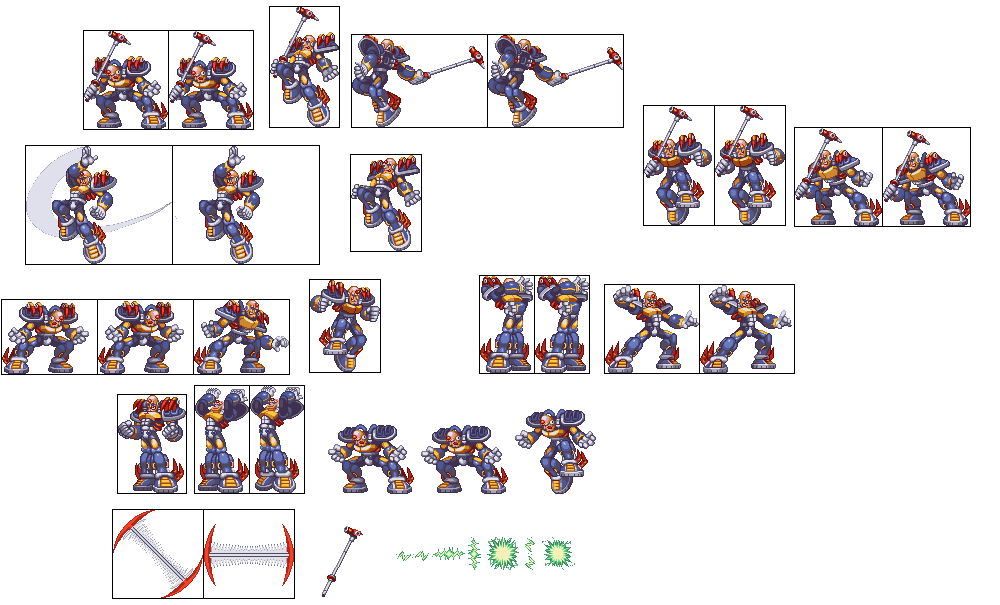
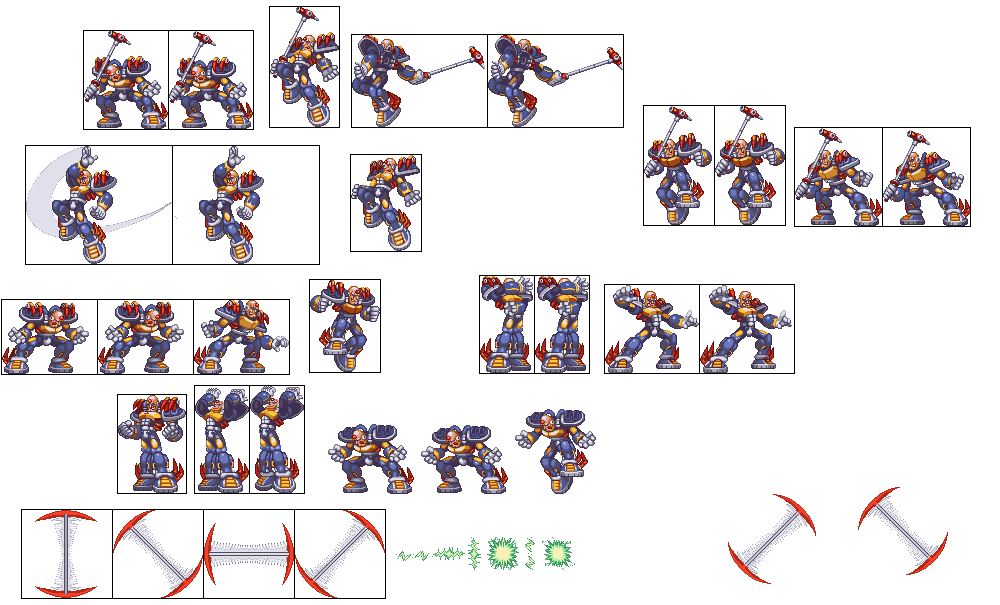
Working on Sigma

diff --git a/js/Game/Sprites/SigmaSickle.js b/js/Game/Sprites/SigmaSickle.js
@@ -1,0 +1,147 @@
+'use strict'
+
+/**
+ * @exports SigmaSickle
+ */
+
+/**
+ * State for the movement state of the projectile.
+ *
+ * @type {{horizontal: number, vertical: number, down: number}}
+ */
+const SigmaSickleState = {
+    down: 0,
+    horizontal: 1,
+    vertical: 2,
+};
+
+/**
+ * @class SigmaSickle
+ *
+ * Class representing the sickle projectile.
+ */
+class SigmaSickle extends Sprite {
+    /**
+     * Reference to the current angle.
+     *
+     * @type {{value?: number}}
+     * @private
+     */
+    #angleRef;
+
+    /**
+     * @param level {Level} level of the projectile.
+     * @param x {number} x-coordinate of the hero.
+     * @param y {number} y-coordinate of the hero.
+     * @param scale {number} scale of SigmaSickle.
+     * @param toLeft {boolean} if true goes to the left.
+     * @param speed {number?} speed of the projectile.
+     * @param hitBoxBrush {{
+     *    borderWidth?: number,
+     *    borderColor?: string,
+     *    fillColor?: string,
+     *    font?: string
+     *  }?} object hit-box brush properties.
+     */
+    constructor(
+        level,
+        x,
+        y,
+        scale,
+        toLeft,
+        speed = 5,
+        hitBoxBrush
+    ) {
+        super(
+            {},
+            ['sigma_2.png'],
+            [x, y],
+            () => {
+                this.circleAround(
+                    this.#angleRef,
+                    this.initX + (toLeft ? -200 : 200),
+                    this.initY + 200,
+                    toLeft ? Math.abs(speed) : -Math.abs(speed),
+                    () => {
+                        this.game.removeSprite(this);
+                    }
+                )
+
+                this.moveCurrentAnimation();
+            },
+            undefined,
+            hitBoxBrush,
+            undefined,
+            undefined,
+            undefined,
+            scale
+        );
+
+        // Angle reference
+        this.#angleRef = {
+            value: -70 + (toLeft ? 0 : -90),
+        };
+
+        this.level = level;
+        this.states.set(SigmaSickleState, SigmaSickleState.down);
+        this.currentAnimation = this.createAnimation(
+            0,
+            22,
+            510,
+            4,
+            1,
+            4,
+            90,
+            88,
+            1,
+            0,
+            1,
+        );
+    }
+
+    /**
+     * @returns {{
+     *   topLeftCoords: [number, number]
+     * }} description of SigmaSickle.
+     */
+    get desc() {
+        return super.desc;
+    }
+
+    /**
+     * @returns {HitBox[]} the smallest rectangle that surrounds the shape.
+     */
+    get defaultHitBox() {
+        return this.convertHitBoxes([
+            {
+                x: this.x + 7,
+                y: this.y + 7,
+                width: 76,
+                height: 74
+            }
+        ]);
+    }
+
+    /**
+     * Draws the rectangle in the 2d context.
+     *
+     * @param context {CanvasRenderingContext2D} 2d canvas element context.
+     */
+    draw(context) {
+        this.drawCurrentAnimation(this.x, this.y, context);
+    }
+
+    /**
+     * @returns {string} the type of the sprite.
+     */
+    static get type() {
+        return "enemyProjectile";
+    }
+
+    /**
+     * @returns {string} the type of the sprite.
+     */
+    get type() {
+        return SigmaSickle.type;
+    }
+}

diff --git a/js/GameEngine/BaseSprites/Sprite.js b/js/GameEngine/BaseSprites/Sprite.js
@@ -1083,6 +1083,43 @@ class Sprite {
     }
 
     /**
+     * @param angleRef {{
+     *      value?: number,
+     *      initValue?: number,
+     * }}
+     * @param x {number} x-coordinate of the center of path.
+     * @param y {number} y-coordinate of the center of path.
+     * @param angularSpeed {number} in degrees.
+     * @param onCycle {function()?} called on each cycle.
+     */
+    circleAround(angleRef, x, y, angularSpeed, onCycle) {
+        if (angleRef.value === undefined) {
+            angleRef.value = angleRef.initValue = 0;
+        } else if (angleRef.initValue === undefined) {
+            angleRef.initValue = angularSpeed > 0 ? angleRef.value : Math.abs(angleRef.value);
+        }
+
+        // Radius of the movement
+        const radius = this.euclideanDistancePt(
+            [this.x, this.y],
+            [x, y]
+        );
+
+        this.x = x + radius * Math.cos(this.degToRadians(angleRef.value));
+        this.y = y + radius * Math.sin(this.degToRadians(angleRef.value));
+
+        // Rotate
+        angleRef.value += angularSpeed;
+
+        // Call onCycle
+        if (angularSpeed > 0 ? angleRef.value : Math.abs(angleRef.value) >= 360 + angleRef.initValue && onCycle) {
+            onCycle();
+        }
+
+        angleRef.value %= 360 + angleRef.initValue;
+    }
+
+    /**
      * Applies linear interpolation to accelerate this sprite to the destination.
      *
      * @param movement {MovementType} object controlling the sprite motion. Modified.
@@ -1343,15 +1380,15 @@ class Sprite {
         }
 
         // Translate coordinates
-        ctx.translate((flip ? -scale * anim.singleWidth - x : x), y);
+        ctx.translate((flip ? Math.floor(-scale * anim.singleWidth - x) : x), y);
 
         // Rotate the image
         ctx.rotate(this.#radRotation);
 
         ctx.drawImage(
             SpriteSheet.load(this.sheets[anim.sheetInd], forceLoad, width, height),
-            (anim.singleWidth + anim.cSpace) * anim.currentCol + anim.startX,
-            (anim.singleHeight + anim.rSpace) * anim.currentRow + anim.startY,
+            Math.floor((anim.singleWidth + anim.cSpace) * anim.currentCol + anim.startX),
+            Math.floor((anim.singleHeight + anim.rSpace) * anim.currentRow + anim.startY),
             anim.singleWidth,
             anim.singleHeight,
             0, // Already translated

diff --git a/js/index.js b/js/index.js
@@ -37,21 +37,21 @@ const ShootingState = {
 const l1 = new Level_1([txt]);
 
 
-const s1 = new SigmaShockProjectile(
-    l1,
-    500,
-    300,
-    2,
-    true,
-);
-
-const s2 = new SigmaShockProjectile(
+const s1 = new SigmaSickle(
     l1,
     500,
     300,
     2,
     false,
 );
+
+// const s2 = new SigmaShockProjectile(
+//     l1,
+//     500,
+//     300,
+//     2,
+//     false,
+// );
 
 const x = new Player(500, 300, l1.scale, (ignored) => {
     // if (x.states.get(ShootingState) === ShootingState.shoot) {
@@ -161,7 +161,7 @@ const expl = new Explosion(
 // b.currentAnimation = b.animations.attack;
 
 const sp = new ShockProjectile(0, 0, 2, 3);
-l1.sprites.push(field, expl, b2, d, sp, s1, s2, bomb, gig);
+l1.sprites.push(field, expl, b2, d, sp, s1, bomb, gig);
 
 
 

diff --git a/index.html b/index.html
@@ -56,6 +56,7 @@
   <script src="./js/Game/Sprites/DejiraProjectile.js"></script>
   <script src="./js/Game/Sprites/MettaurProjectile.js"></script>
   <script src="./js/Game/Sprites/ShockProjectile.js"></script>
+  <script src="./js/Game/Sprites/SigmaSickle.js"></script>
   <script src="./js/Game/Sprites/SigmaShockProjectile.js"></script>
   <script src="./js/Game/Sprites/VerticalMeteor.js"></script>
   <script src="./js/Game/Sprites/Bee.js"></script>
